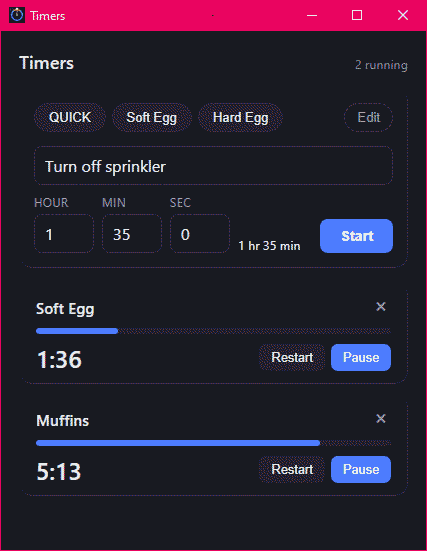
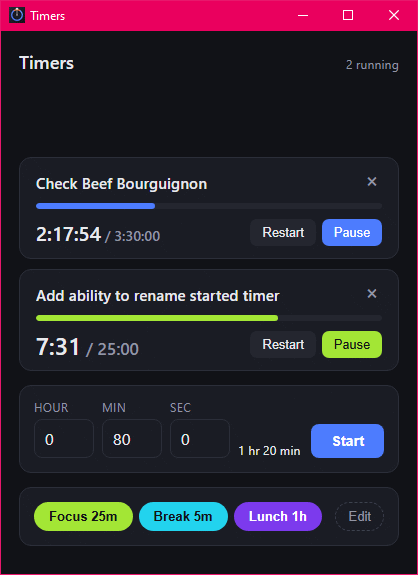
Move timer controls to the bottom so it's easier to drag up for up to 60 (mins or seconds) or 99 hours Move preset buttons under timer controls Save/restore last timer setting used; on first run use 00:00:00

diff --git a/frontend/src/components/NewTimerForm.vue b/frontend/src/components/NewTimerForm.vue
@@ -1,6 +1,7 @@
 <script setup lang="ts">
 import { computed, ref } from "vue";
 
+import { TimerService } from "../../bindings/github.com/andrewwphillips/timers-wails";
 import { vDragNumber } from "../directives/dragNumber";
 import { formatDuration, toSeconds } from "../lib/format";
 
@@ -8,16 +9,69 @@ const emit = defineEmits<{
   start: [hours: number, minutes: number, seconds: number, label: string];
 }>();
 
+// Start at zero; the values last used are restored from the settings file on
+// mount (see below).
 const hours = ref(0);
-const minutes = ref(5);
+const minutes = ref(0);
 const seconds = ref(0);
-const label = ref("");
 
 /** Empty inputs read as 0 rather than NaN, so a cleared field is not an error. */
 function value(input: number | string): number {
   const n = typeof input === "number" ? input : Number(input);
   return Number.isFinite(n) && n > 0 ? Math.floor(n) : 0;
 }
+
+/**
+ * The controls are remembered across restarts, as the three values entered
+ * rather than a total, so 80 minutes comes back as 80 minutes. Changes are
+ * saved after a short pause, since dragging a value fires an input event for
+ * every step.
+ */
+const saveDelayMs = 400;
+let saveTimer: ReturnType<typeof setTimeout> | null = null;
+/** Not until the saved values have been restored, so the restore itself (or
+ *  an early edit racing it) never overwrites them with the zero defaults. */
+let restored = false;
+
+onMounted(async () => {
+  try {
+    const saved = await TimerService.GetTimerControls();
+    hours.value = saved.hours;
+    minutes.value = saved.minutes;
+    seconds.value = saved.seconds;
+  } catch {
+    // Not fatal: the controls just start at zero.
+  }
+  restored = true;
+});
+
+watch([hours, minutes, seconds], () => {
+  if (!restored) {
+    return;
+  }
+  if (saveTimer !== null) {
+    clearTimeout(saveTimer);
+  }
+  saveTimer = setTimeout(saveControls, saveDelayMs);
+});
+
+function saveControls(): void {
+  saveTimer = null;
+  void TimerService.SaveTimerControls({
+    hours: value(hours.value),
+    minutes: value(minutes.value),
+    seconds: value(seconds.value),
+  }).catch(() => {
+    // Losing the remembered controls is harmless; nothing to tell the user.
+  });
+}
+
+onUnmounted(() => {
+  if (saveTimer !== null) {
+    clearTimeout(saveTimer);
+    saveControls();
+  }
+});
 
 const totalSeconds = computed(() => toSeconds(value(hours.value), value(minutes.value), value(seconds.value)));
 const valid = computed(() => totalSeconds.value > 0);

diff --git a/frontend/src/App.vue b/frontend/src/App.vue
@@ -160,13 +160,10 @@ onUnmounted(() => {
       <span v-if="timers.length" class="count">{{ timers.length }} running</span>
     </header>
 
-    <section class="panel">
-      <PresetBar :presets="preferences.presets" @start="startPreset" @edit="showSettings = true" />
-      <NewTimerForm @start="create" />
-    </section>
-
     <p v-if="error" class="error" role="alert">{{ error }}</p>
 
+    <!-- Fills the space above the time controls, builds up from the bottom,
+         and scrolls once there are more timers than fit. -->
     <section ref="cards" class="cards">
       <TimerCard
         v-for="timer in timers"
@@ -184,10 +181,19 @@ onUnmounted(() => {
 
       <p v-if="!loading && timers.length === 0" class="empty">
         No timers are running.<br/>
-        Choose a preset from the buttons above, OR<br/>
+        Choose a preset using the buttons, OR<br/>
         click and drag the time controls and select Start.
       </p>
+    </section>
 
+    <section class="panel">
+      <NewTimerForm @start="startManual" />
+    </section>
+
+    <!-- Below the time controls, which leaves room under them for dragging
+         a value down. -->
+    <section class="panel">
+      <PresetBar :presets="preferences.presets" @start="startPreset" @edit="showSettings = true" />
     </section>
 
     <SettingsDialog
@@ -195,6 +201,7 @@ onUnmounted(() => {
       :preferences="preferences"
       :preset-colors="presetColors"
       :pick-alarm-file="pickAlarmFile"
+      :open-settings-folder="openSettingsFolder"
       :testing="testing"
       @save="onSave"
       @close="closeSettings"
@@ -212,7 +219,9 @@ onUnmounted(() => {
   display: flex;
   flex-direction: column;
   gap: 14px;
-  min-height: 100vh;
+  /* Exactly the window's height (padding included), so the timer list in the
+     middle takes up whatever is left and scrolls, rather than the page. */
+  height: 100vh;
 }
 
 .top {
@@ -245,9 +254,21 @@ h1 {
 }
 
 .cards {
+  flex: 1;
+  min-height: 0;
+  overflow-y: auto;
   display: flex;
   flex-direction: column;
   gap: 10px;
+  scrollbar-width: thin;
+  scrollbar-color: var(--line-bright) transparent;
+}
+
+/* Anchors the list to the bottom, next to the time controls. An auto top
+   margin rather than justify-content: flex-end, which would push overflowing
+   timers out of reach above the top of the scroll area. */
+.cards > :first-child {
+  margin-top: auto;
 }
 
 .empty {

diff --git a/frontend/bindings/github.com/andrewwphillips/timers-wails/timerservice.ts b/frontend/bindings/github.com/andrewwphillips/timers-wails/timerservice.ts
@@ -14,6 +14,9 @@ import { Call as $Call, CancellablePromise as $CancellablePromise } from "@wails
 
 // eslint-disable-next-line @typescript-eslint/ban-ts-comment
 // @ts-ignore: Unused imports
+import * as settings$0 from "./internal/settings/models.js";
+// eslint-disable-next-line @typescript-eslint/ban-ts-comment
+// @ts-ignore: Unused imports
 import * as timer$0 from "./internal/timer/models.js";
 
 // eslint-disable-next-line @typescript-eslint/ban-ts-comment
@@ -49,6 +52,14 @@ export function DismissTimer(id: string): $CancellablePromise<timer$0.Timer> {
  */
 export function GetPreferences(): $CancellablePromise<$models.Preferences> {
     return $Call.ByID(3982987350);
+}
+
+/**
+ * GetTimerControls returns the hours, minutes and seconds last set in the main
+ * window's time controls, so they can be restored when the app opens.
+ */
+export function GetTimerControls(): $CancellablePromise<settings$0.TimerControls> {
+    return $Call.ByID(2707578711);
 }
 
 /**
@@ -114,4 +125,12 @@ export function ResumeTimer(id: string): $CancellablePromise<timer$0.Timer> {
  */
 export function SavePreferences(p: $models.Preferences): $CancellablePromise<$models.Preferences> {
     return $Call.ByID(2051932637, p);
+}
+
+/**
+ * SaveTimerControls remembers the time controls' current values. The
+ * frontend calls it (debounced) whenever they change.
+ */
+export function SaveTimerControls(c: settings$0.TimerControls): $CancellablePromise<void> {
+    return $Call.ByID(2029168972, c);
 }

diff --git a/frontend/bindings/github.com/andrewwphillips/timers-wails/internal/settings/models.ts b/frontend/bindings/github.com/andrewwphillips/timers-wails/internal/settings/models.ts
@@ -42,3 +42,15 @@ export interface Preset {
      */
     "color": string;
 }
+
+/**
+ * TimerControls is the last hours/minutes/seconds entered in the main window's
+ * time controls, restored when the app opens. Kept as the three fields as
+ * entered rather than a total, so 80 minutes comes back as 80 minutes, not
+ * 1 hour 20. The zero value (all zero) is what a new install starts with.
+ */
+export interface TimerControls {
+    "hours": number;
+    "minutes": number;
+    "seconds": number;
+}

diff --git a/frontend/bindings/github.com/andrewwphillips/timers-wails/internal/settings/index.ts b/frontend/bindings/github.com/andrewwphillips/timers-wails/internal/settings/index.ts
@@ -3,5 +3,6 @@
 
 export type {
     Alarm,
-    Preset
+    Preset,
+    TimerControls
 } from "./models.js";

diff --git a/internal/settings/settings.go b/internal/settings/settings.go
@@ -97,6 +97,7 @@ const VolumeStep = 0.05
 // MaxRampSeconds caps how long the alarm takes to reach full volume.
 const MaxRampSeconds = 600
 
+// Defaults for a new install, and for any value missing from the file.
 const (
 	DefaultVolume      = 0.8
 	DefaultRampSeconds = 60
@@ -130,7 +131,22 @@ type Settings struct {
 	// set the main window location when the app is reopened but may be adjusted later (only
 	// for OS=Windows) if the config file settings now have a location outside any screen,
 	Window *WindowBounds `json:"window,omitempty"`
+	// Controls is what was last set in the main window's time controls.
+	Controls TimerControls `json:"controls"`
 }
+
+// TimerControls is the last hours/minutes/seconds entered in the main window's
+// time controls, restored when the app opens. Kept as the three fields as
+// entered rather than a total, so 80 minutes comes back as 80 minutes, not
+// 1 hour 20. The zero value (all zero) is what a new install starts with.
+type TimerControls struct {
+	Hours   int `json:"hours"`
+	Minutes int `json:"minutes"`
+	Seconds int `json:"seconds"`
+}
+
+// MaxControlHours matches the hour control's own limit.
+const MaxControlHours = 99
 
 // DefaultPresets are the quick-set buttons a new install starts with.
 func DefaultPresets() []Preset {
@@ -203,6 +219,10 @@ func (s *Settings) Normalise() {
 	if s.Window != nil && (s.Window.Width <= 0 || s.Window.Height <= 0) {
 		s.Window = nil
 	}
+
+	s.Controls.Hours = min(max(s.Controls.Hours, 0), MaxControlHours)
+	s.Controls.Minutes = max(s.Controls.Minutes, 0)
+	s.Controls.Seconds = max(s.Controls.Seconds, 0)
 
 	if s.Timers == nil {
 		s.Timers = []timer.Timer{}

diff --git a/internal/settings/settings_test.go b/internal/settings/settings_test.go
@@ -73,6 +73,8 @@ func TestSaveLoadRoundTrip(t *testing.T) {
 			},
 		},
 		Window: &WindowBounds{X: -1200, Y: 40, Width: 520, Height: 800, Maximised: true},
+		// 80 minutes must come back as 80 minutes, not 1 hour 20.
+		Controls: TimerControls{Hours: 0, Minutes: 80, Seconds: 5},
 	}
 
 	if err := s.Save(want); err != nil {
@@ -95,6 +97,24 @@ func TestSaveLoadRoundTrip(t *testing.T) {
 	}
 	if got.Window == nil || *got.Window != *want.Window {
 		t.Errorf("Window = %+v, want %+v", got.Window, want.Window)
+	}
+	if got.Controls != want.Controls {
+		t.Errorf("Controls = %+v, want %+v", got.Controls, want.Controls)
+	}
+}
+
+func TestTimerControlsDefaultToZero(t *testing.T) {
+	if got := Default().Controls; got != (TimerControls{}) {
+		t.Errorf("Default().Controls = %+v, want all zero", got)
+	}
+}
+
+func TestNormaliseRepairsTimerControls(t *testing.T) {
+	s := Settings{Presets: DefaultPresets(), Controls: TimerControls{Hours: 500, Minutes: -3, Seconds: -1}}
+	s.Normalise()
+	want := TimerControls{Hours: MaxControlHours, Minutes: 0, Seconds: 0}
+	if s.Controls != want {
+		t.Errorf("Controls = %+v, want %+v", s.Controls, want)
 	}
 }
 

diff --git a/timerservice.go b/timerservice.go
@@ -289,6 +289,23 @@ func (s *TimerService) GetPreferences() Preferences {
 	return p
 }
 
+// GetTimerControls returns the hours, minutes and seconds last set in the main
+// window's time controls, so they can be restored when the app opens.
+func (s *TimerService) GetTimerControls() settings.TimerControls {
+	s.mu.Lock()
+	defer s.mu.Unlock()
+	return s.cfg.Controls
+}
+
+// SaveTimerControls remembers the time controls' current values. The
+// frontend calls it (debounced) whenever they change.
+func (s *TimerService) SaveTimerControls(c settings.TimerControls) {
+	s.mu.Lock()
+	s.cfg.Controls = c
+	s.mu.Unlock()
+	s.persist()
+}
+
 // autostartState reports whether the app is registered to launch at login,
 // and whether that is supported at all (it is not in the server build).
 func autostartState() (enabled, available bool) {
